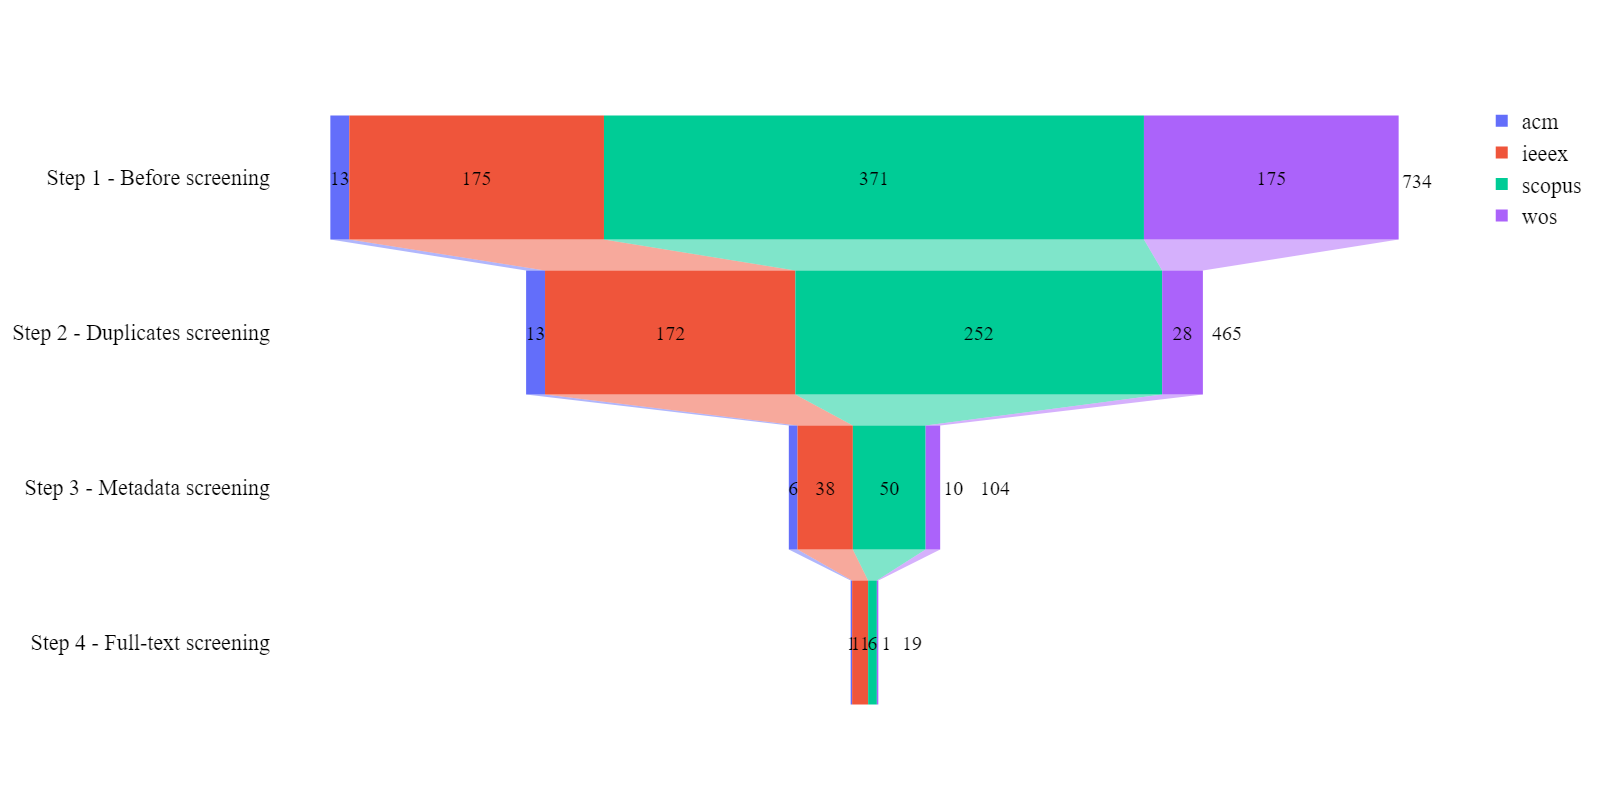
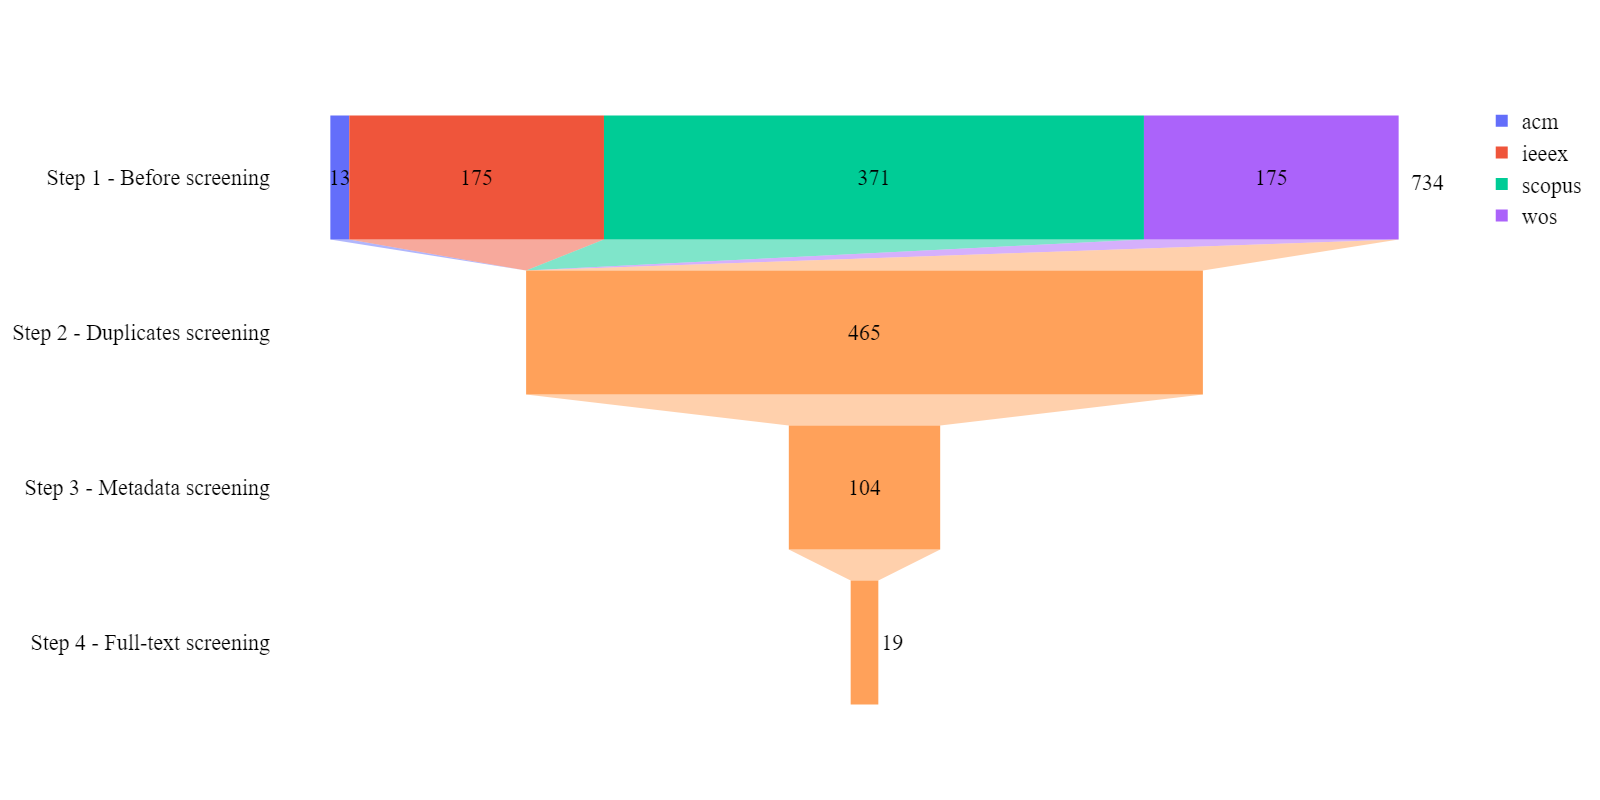
improve funnel plot

Changed region(s): [[0.2812, 0.2812, 0.875, 0.9062], [0.875, 0.2188, 0.9062, 0.25]]

diff --git a/code/plots/funnel_plot.py b/code/plots/funnel_plot.py
@@ -49,11 +49,11 @@ for db in complete_df["database"].unique():
                 "Step 3 - Metadata screening",
                 "Step 4 - Full-text screening",
             ],
-            x=[step1, step2, step3, step4],
+            x=[step1, 0, 0, 0],
             textinfo="value",
             textfont=dict(
                 color="black",
-                size=20,  # can change the size of font here
+                size=22,  # can change the size of font here
                 family="Times New Roman",
             ),
             constraintext="outside",
@@ -69,58 +69,37 @@ step2 = step1 - len(filt_df[filt_df["exclusion_step"] == "Duplicates filter"])
 step3 = step2 - len(filt_df[filt_df["exclusion_step"] == "Metadata filter"])
 step4 = step3 - len(filt_df[filt_df["exclusion_step"] == "Full-text filter"])
 
+fig.add_trace(
+    go.Funnel(
+        y=[
+            "Step 1 - Before screening",
+            "Step 2 - Duplicates screening",
+            "Step 3 - Metadata screening",
+            "Step 4 - Full-text screening",
+        ],
+        x=[0, step2, step3, step4],
+        textinfo="value",
+        textfont=dict(
+            color="black",
+            size=22,  # can change the size of font here
+            family="Times New Roman",
+        ),
+        constraintext="outside",
+        marker=dict(line=dict(color="white")),
+        showlegend=False,
+    ),
+)
+
 fig.add_annotation(
     text=str(step1),
     showarrow=False,
     xref="paper",
     yref="paper",
-    x=0.98,
+    x=0.99,
     y=0.89,
     font=dict(
         color="black",
-        size=20,  # can change the size of font here
-        family="Times New Roman",
-    ),
-)
-
-fig.add_annotation(
-    text=str(step2),
-    showarrow=False,
-    xref="paper",
-    yref="paper",
-    x=0.82,
-    y=0.625,
-    font=dict(
-        color="black",
-        size=20,  # can change the size of font here
-        family="Times New Roman",
-    ),
-)
-
-fig.add_annotation(
-    text=str(step3),
-    showarrow=False,
-    xref="paper",
-    yref="paper",
-    x=0.61,
-    y=0.375,
-    font=dict(
-        color="black",
-        size=20,  # can change the size of font here
-        family="Times New Roman",
-    ),
-)
-
-fig.add_annotation(
-    text=str(step4),
-    showarrow=False,
-    xref="paper",
-    yref="paper",
-    x=0.54,
-    y=0.104,
-    font=dict(
-        color="black",
-        size=20,  # can change the size of font here
+        size=22,  # can change the size of font here
         family="Times New Roman",
     ),
 )
